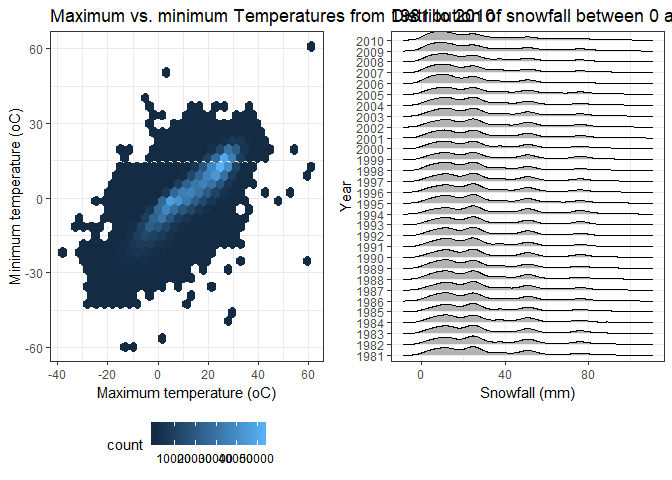
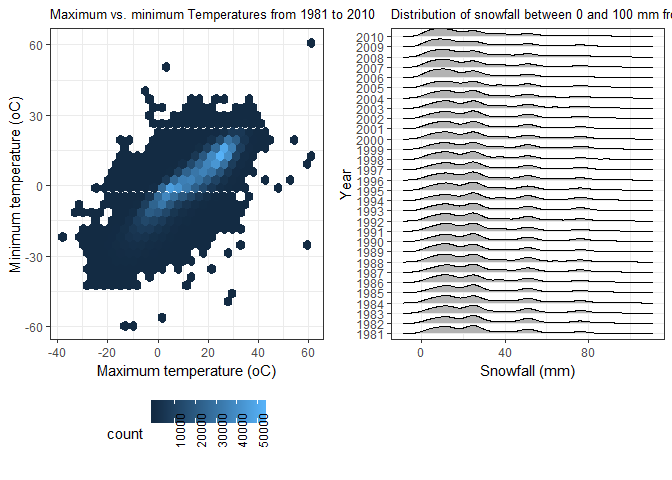
minimize the title of final plots; adjust the angle of label text

diff --git a/p8105_hw3_jy2944.md b/p8105_hw3_jy2944.md
@@ -516,6 +516,7 @@ We can learn from above plot that the average max temperature in January were lo
 
 ``` r
 tmax_tmin_hex = noaa_data %>% 
+  # hexplot
   ggplot(aes(x = tmax, y = tmin)) +
   geom_hex() +
   labs(
@@ -523,17 +524,24 @@ tmax_tmin_hex = noaa_data %>%
     x = "Maximum temperature (ºC)", 
     y = "Minimum temperature (ºC)"
   ) +
-  theme(legend.position = "bottom")
+  theme(
+    legend.position = "bottom",
+    legend.text = element_text(angle = 90),
+    plot.title = element_text(size = 10)
+    
+        )
 
 snow_ridge = noaa_data %>% 
   filter(snow > 0 & snow < 100) %>% 
+  # ridge plot
   ggplot(aes(x = snow, y = year)) +
   geom_density_ridges(scale = .85) +
   labs(
     title = "Distribution of snowfall between 0 and 100 mm from 1981 to 2010",
     x = "Snowfall (mm)",
     y = "Year"
-    )
+    ) +
+  theme(plot.title = element_text(size = 10))
   
 tmax_tmin_hex + snow_ridge
 ```
